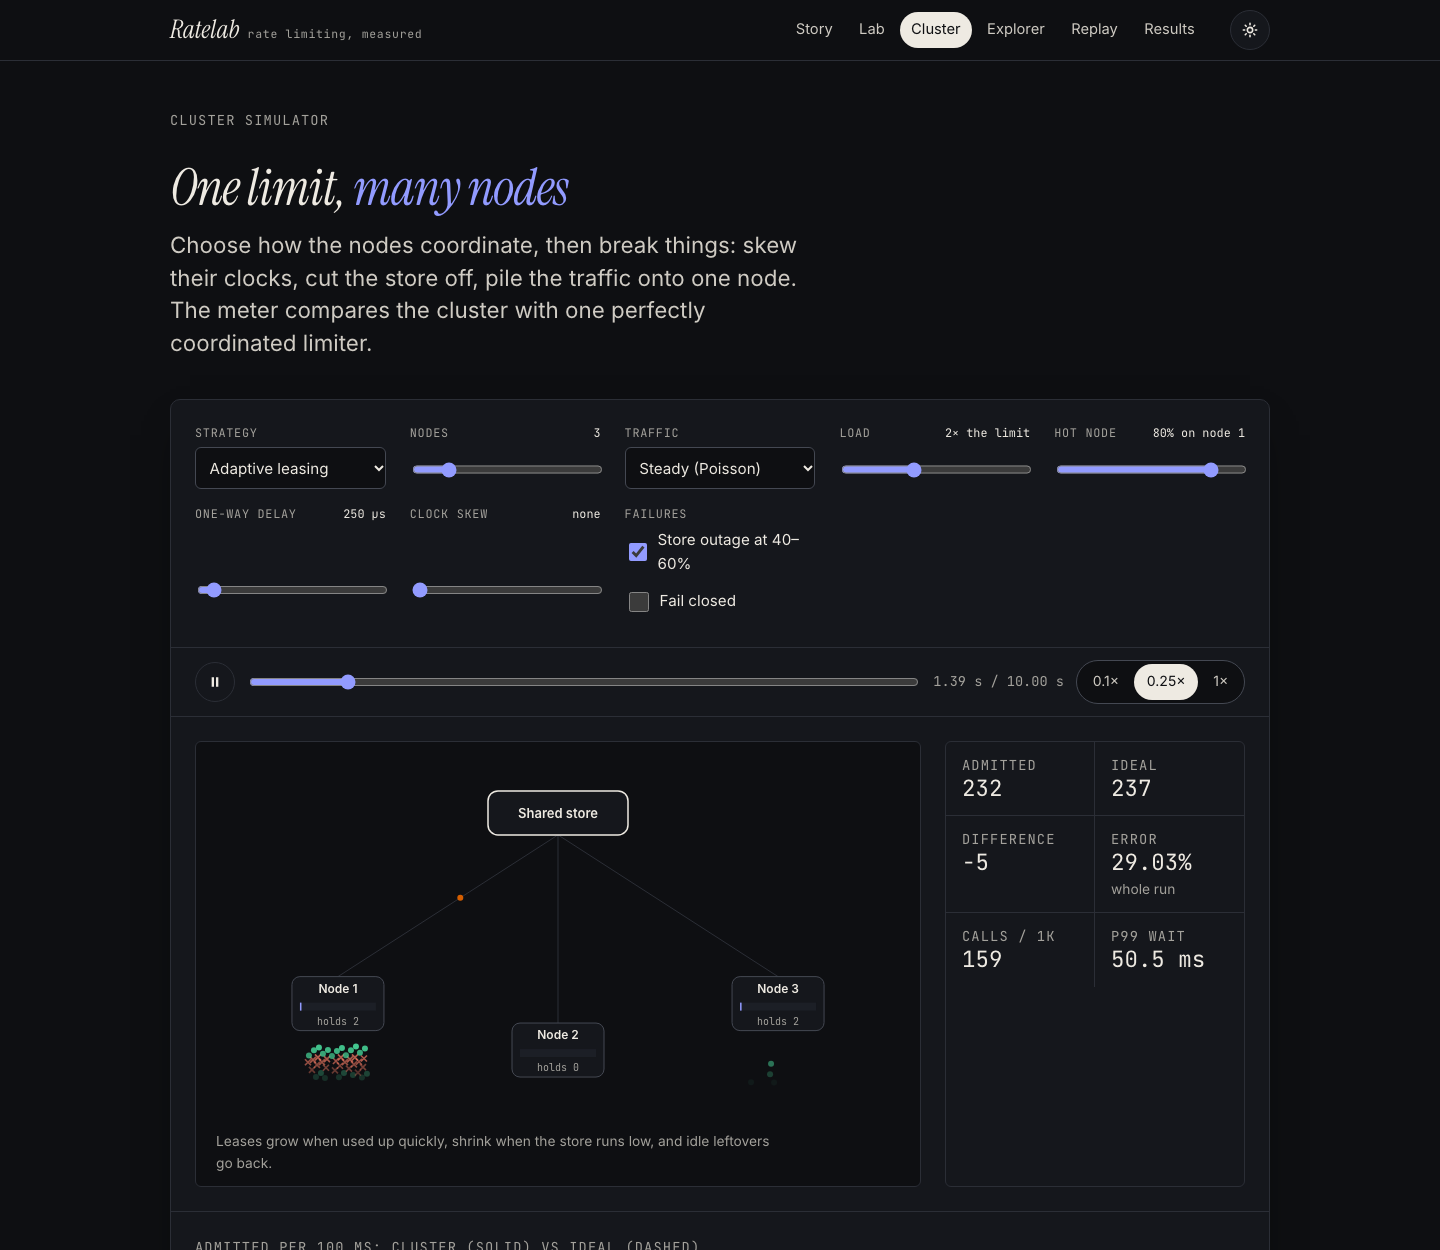
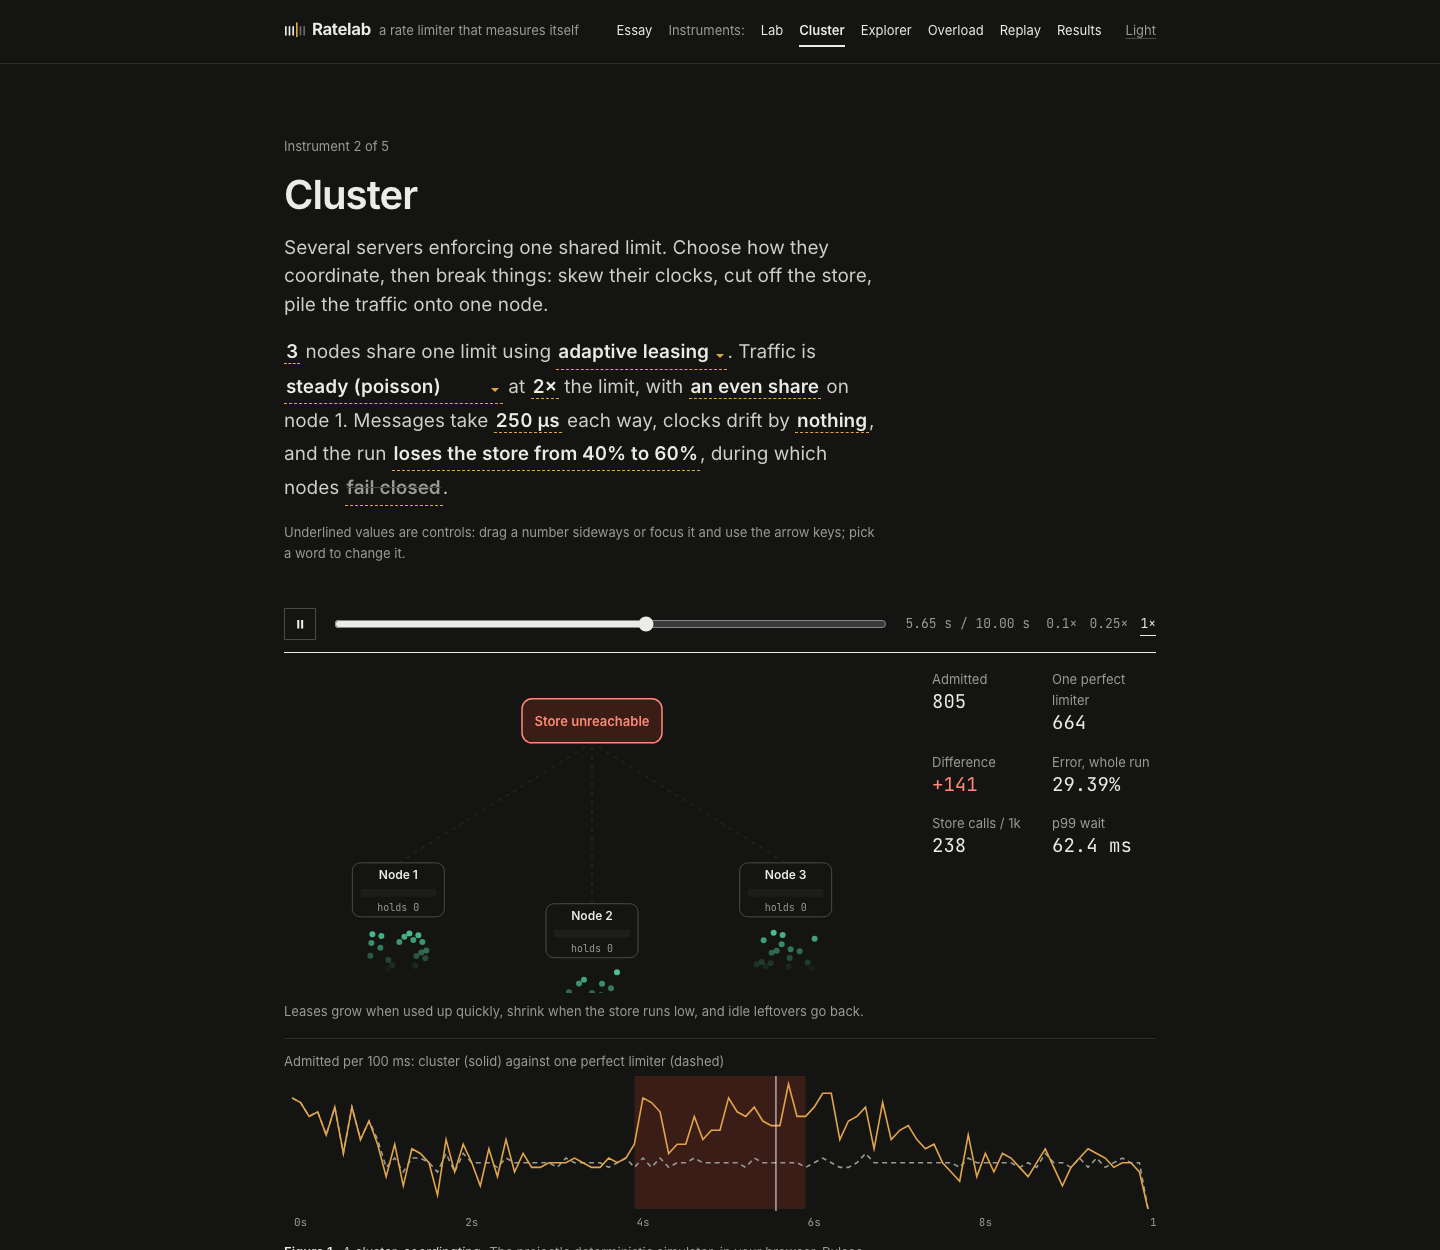
docs: describe the redesigned playground, with new screenshots

diff --git a/README.md b/README.md
@@ -171,18 +171,23 @@ The playground runs the project's own Rust code in the browser (compiled to
 WebAssembly), so every number it shows is computed live by the library, or comes from
 the benchmark's result files.
 
-| View | What you can do |
+It reads as a short paper with live figures: the controls are the underlined words
+in its sentences (drag a number, pick a word), so the question and the knob that
+changes it are the same text.
+
+| Page | What you can do |
 |------|-----------------|
-| **Story** | Opens on the boundary attack, already playing: fixed window, sliding window and GCRA under the same burst at a window edge |
-| **Lab** | Pick an algorithm (or two, side by side), traffic and limit; play and scrub through every decision and the algorithm's state: the bucket level, the window counter, the sliding log, GCRA's theoretical arrival time |
+| **Essay** | The argument in seven sections: the boundary attack, five algorithms, a cluster, the price of exactness, overload, what went wrong, and how to use it, each with a live figure |
+| **Lab** | One algorithm, or two side by side, on any traffic and limit; play and scrub through every decision and the algorithm's state: the bucket level, the window counter, the sliding log, GCRA's theoretical arrival time |
 | **Cluster** | 2 to 8 nodes sharing one limit with any coordination strategy; change delay, clock skew and traffic skew, cut the store off, and watch admission error against a perfectly coordinated limiter |
-| **Explorer** | The benchmark's Pareto chart (store calls against admission error); select any point to replay that configuration in the cluster simulator |
+| **Explorer** | The benchmark's Pareto chart (store calls against admission error); select any point to replay that configuration in the cluster instrument |
+| **Overload** | A backend with limited capacity behind no limit, a static limit, AIMD and Gradient2; change its workers, service time, deadline and load, and watch goodput and the limit each algorithm settles on |
 | **Replay** | Drop an access log (CSV, JSON Lines or nginx/Apache combined). It is replayed through every algorithm and strategy **inside the page**, nothing is uploaded, and you get the smallest limit that keeps blocking under your target |
 | **Results** | Every result file as tables, with the machine and commit each was measured on |
 
 <p align="center">
-  <img src="docs/screenshots/playground-story.png" width="49%" alt="The story page: the headline and the live boundary attack figure" />
-  <img src="docs/screenshots/playground-cluster.png" width="49%" alt="The cluster simulator in dark mode during a store outage" />
+  <img src="docs/screenshots/playground-story.png" width="49%" alt="The essay: title, contents in the margin and the first section with its live figure" />
+  <img src="docs/screenshots/playground-cluster.png" width="49%" alt="The cluster instrument in dark mode during a store outage" />
 </p>
 
 Built for everyone: light and dark themes, full keyboard control, screen-reader
